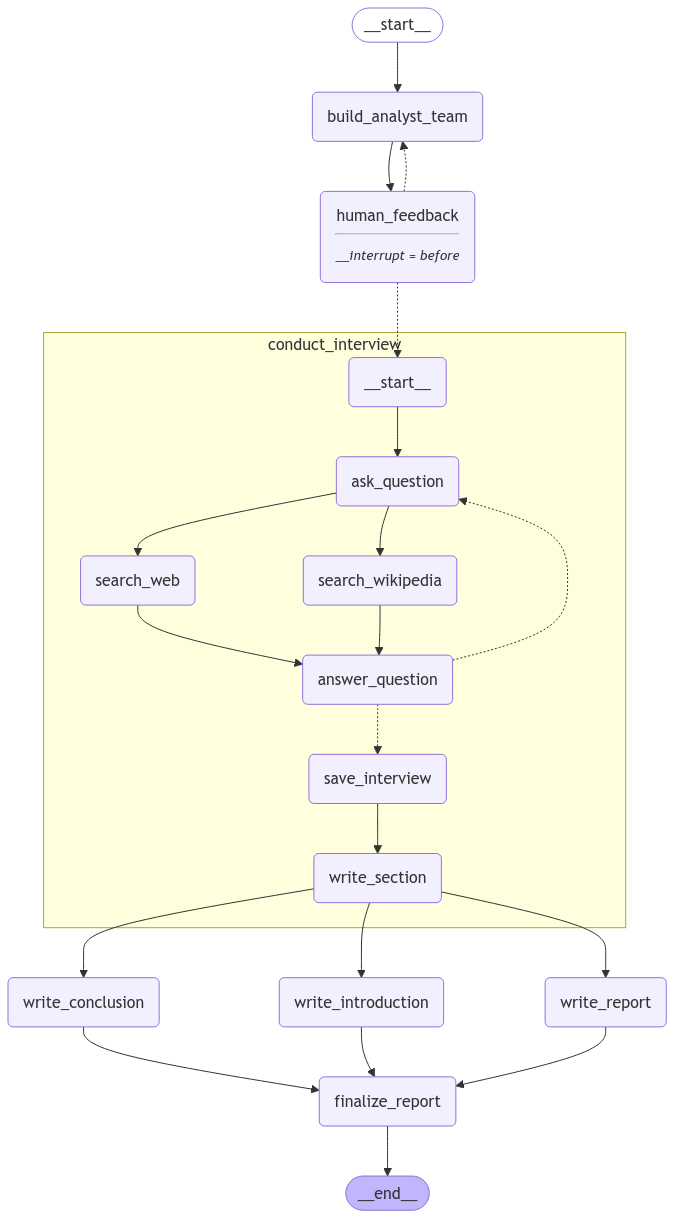
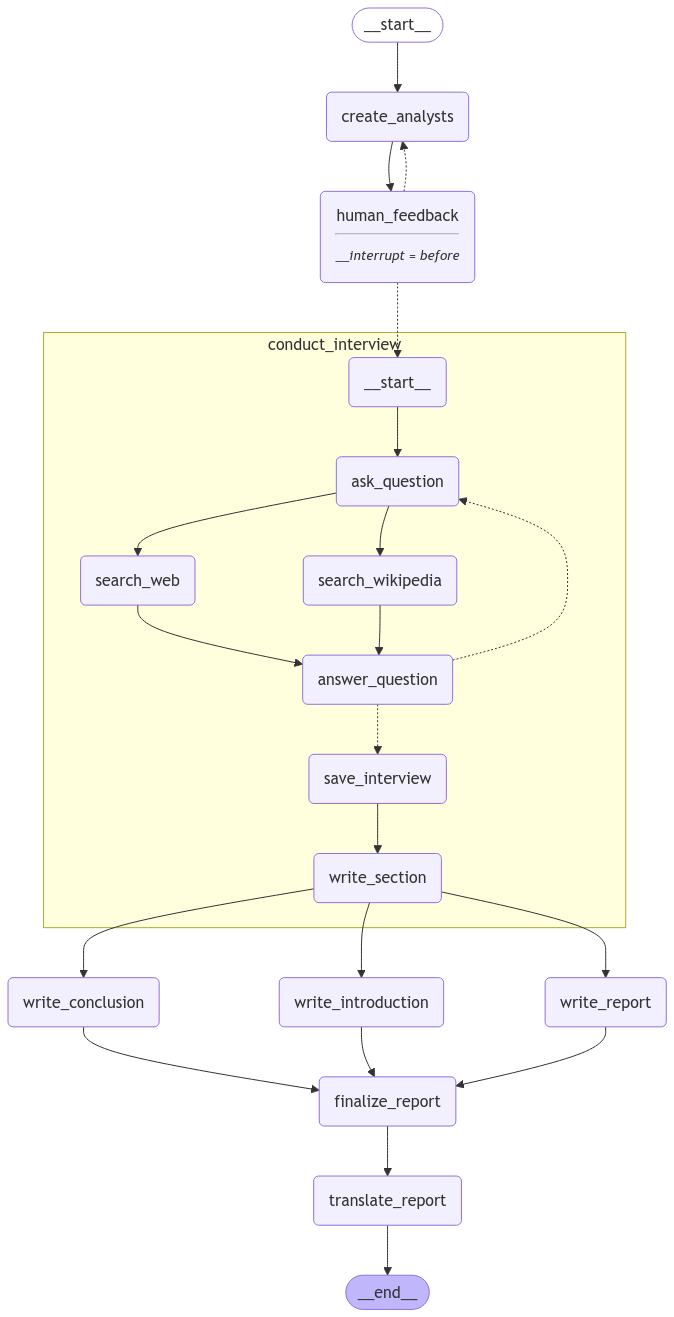
feat: add translate feature

diff --git a/agent/report.py b/agent/report.py
@@ -134,3 +134,41 @@ def finalize_report(state: ResearchGraphState):
     report += "\n\n## Sources\n" + sources
 
   return {"final_report": report}
+
+
+translate_instruction = """\
+You are a professional translator.  
+Your task is to translate the provided report into the appropriate target language.  
+
+**Translation Rules:**  
+- Determine the appropriate target language based on the topic provided by the user.  
+  - If the target language is unclear, default to **English**.  
+- **Output only the translated text. Do not include any extra commentary or explanations.**  
+- **Use natural and clear expressions in the target language, avoiding literal translations that may sound unnatural.**  
+- **For technical terms or specialized vocabulary, use the most appropriate equivalent in the target language.**  
+- **Ensure that the translation accurately conveys the original meaning while maintaining readability.**  
+
+"""
+
+user_prompt = """\
+Please translate the following report into the appropriate language.
+
+**Topic:** {topic}  
+**Report:**  
+{report}
+
+"""
+
+
+def translate_report(state: ResearchGraphState):
+  """Translate the report into Japanese."""
+
+  prompt = ChatPromptTemplate.from_messages(
+    [
+      ("system", translate_instruction),
+      ("human", user_prompt),
+    ]
+  )
+  chain = prompt | llm
+  output = chain.invoke({"topic": state.topic, "report": state.final_report})
+  return {"translated_report": output.content}

diff --git a/agent/graph.py b/agent/graph.py
@@ -13,6 +13,7 @@ from agent.analysts import (
 from agent.interview import interview_builder
 from agent.report import (
   finalize_report,
+  translate_report,
   write_conclusion,
   write_introduction,
   write_report,
@@ -56,6 +57,7 @@ builder.add_node("write_report", write_report)
 builder.add_node("write_introduction", write_introduction)
 builder.add_node("write_conclusion", write_conclusion)
 builder.add_node("finalize_report", finalize_report)
+builder.add_node("translate_report", translate_report)
 
 # add edges
 builder.add_edge(START, "create_analysts")
@@ -71,7 +73,8 @@ builder.add_edge("conduct_interview", "write_conclusion")
 builder.add_edge(
   ["write_report", "write_introduction", "write_conclusion"], "finalize_report"
 )
-builder.add_edge("finalize_report", END)
+builder.add_edge("finalize_report", "translate_report")
+builder.add_edge("translate_report", END)
 
 memory = MemorySaver()
 graph = builder.compile(interrupt_before=["human_feedback"], checkpointer=memory)

diff --git a/agent/research.py b/agent/research.py
@@ -18,3 +18,4 @@ class ResearchGraphState(BaseModel):
   content: str = Field("", description="Content for the final report")
   conclusion: str = Field("", description="Conclusion for the final report")
   final_report: str = Field("", description="Final report")
+  translated_report: str = Field("", description="Translated report")
